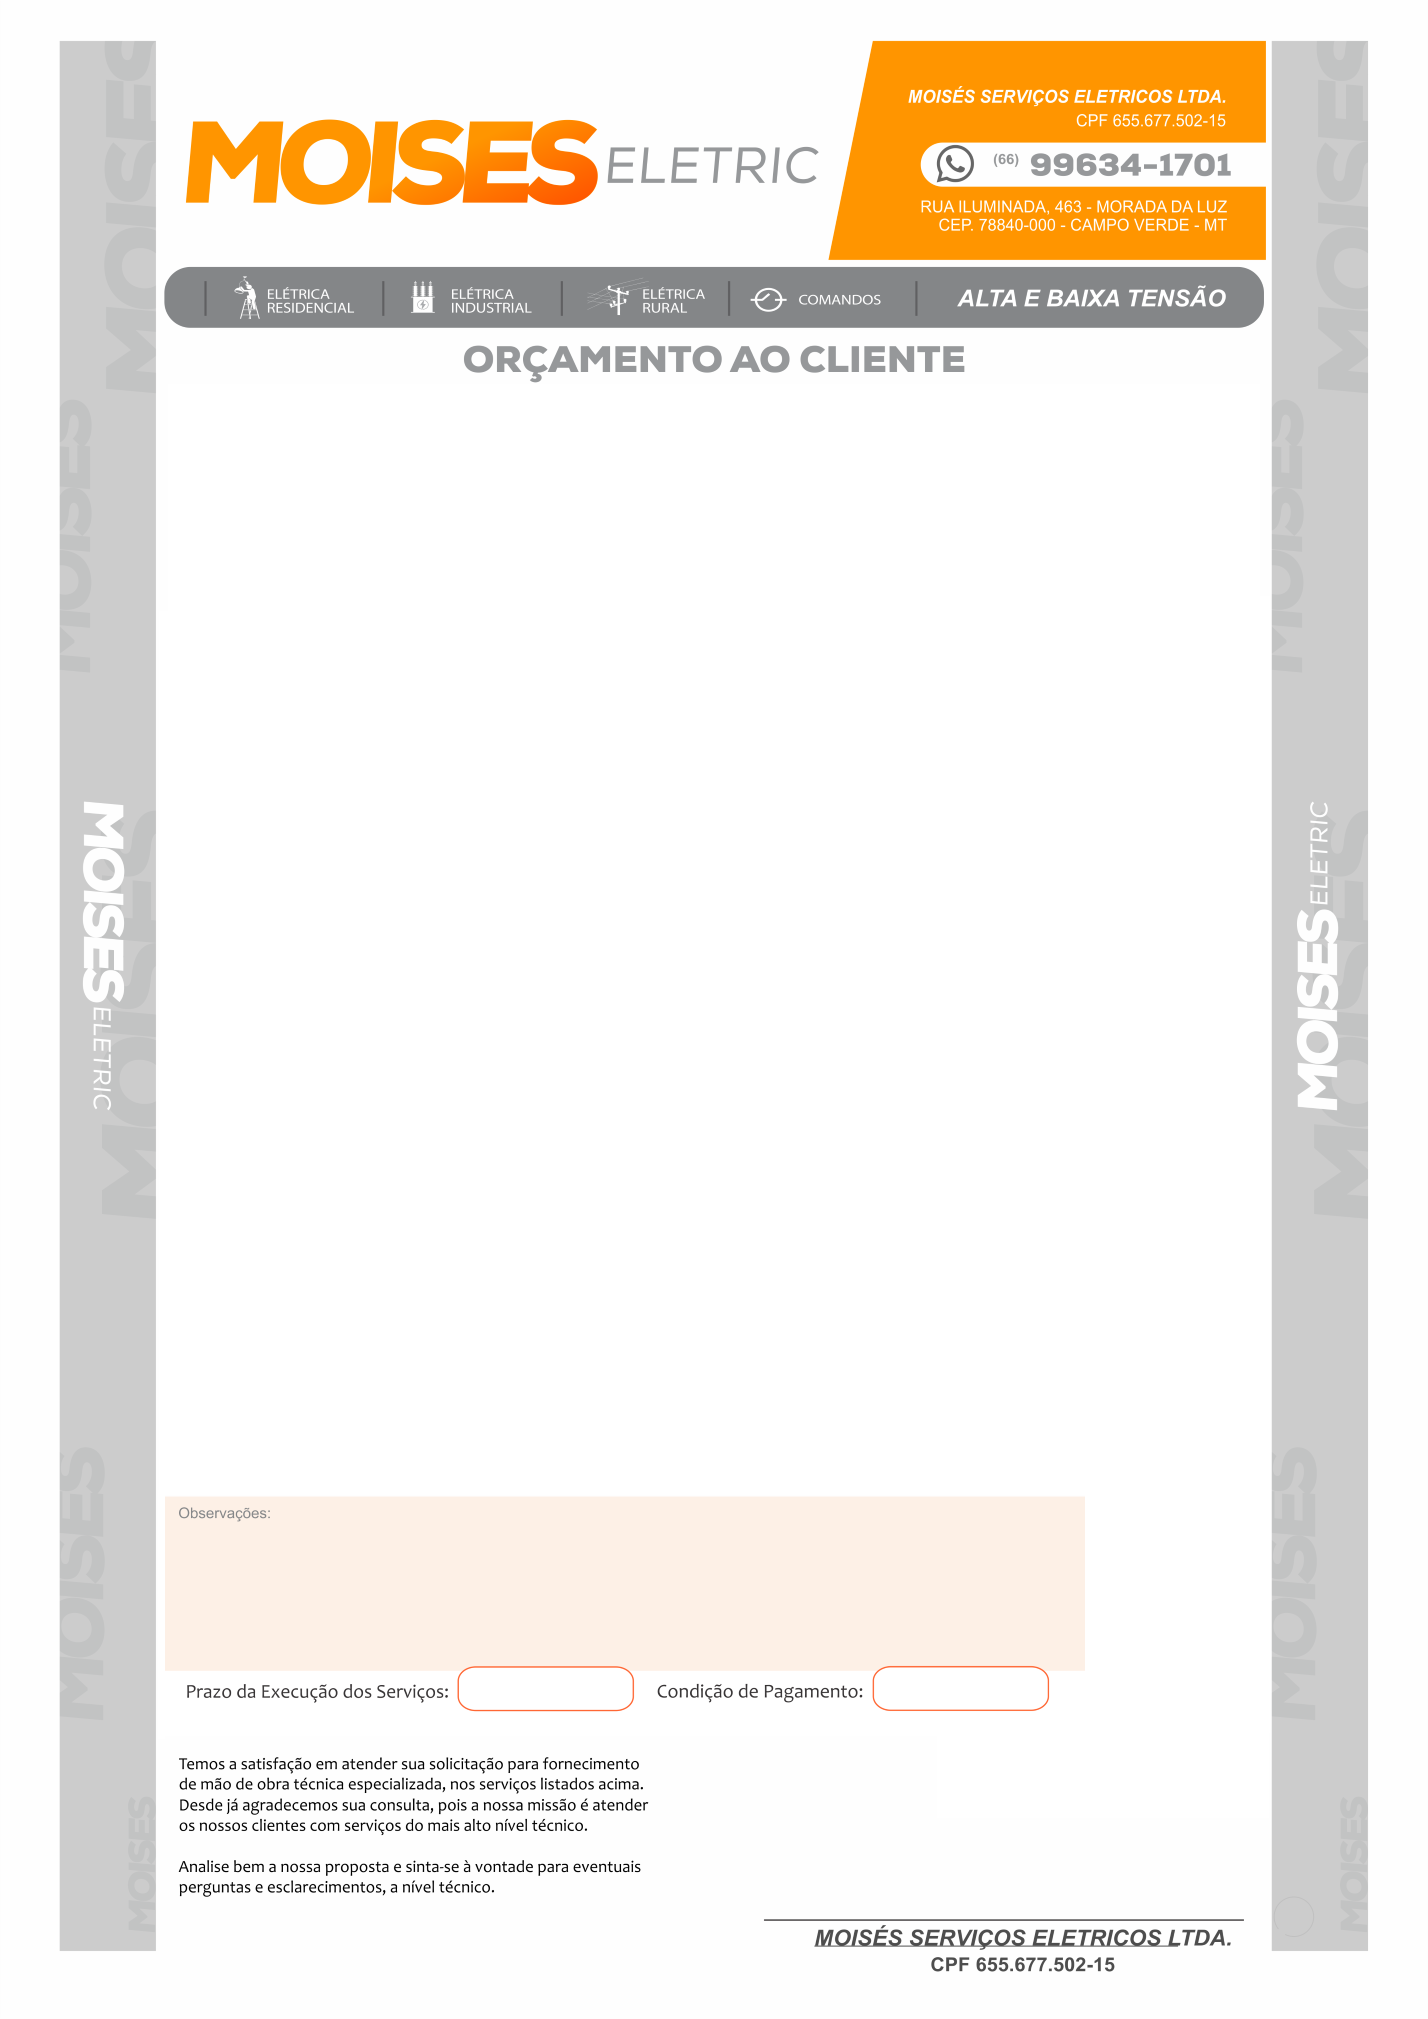
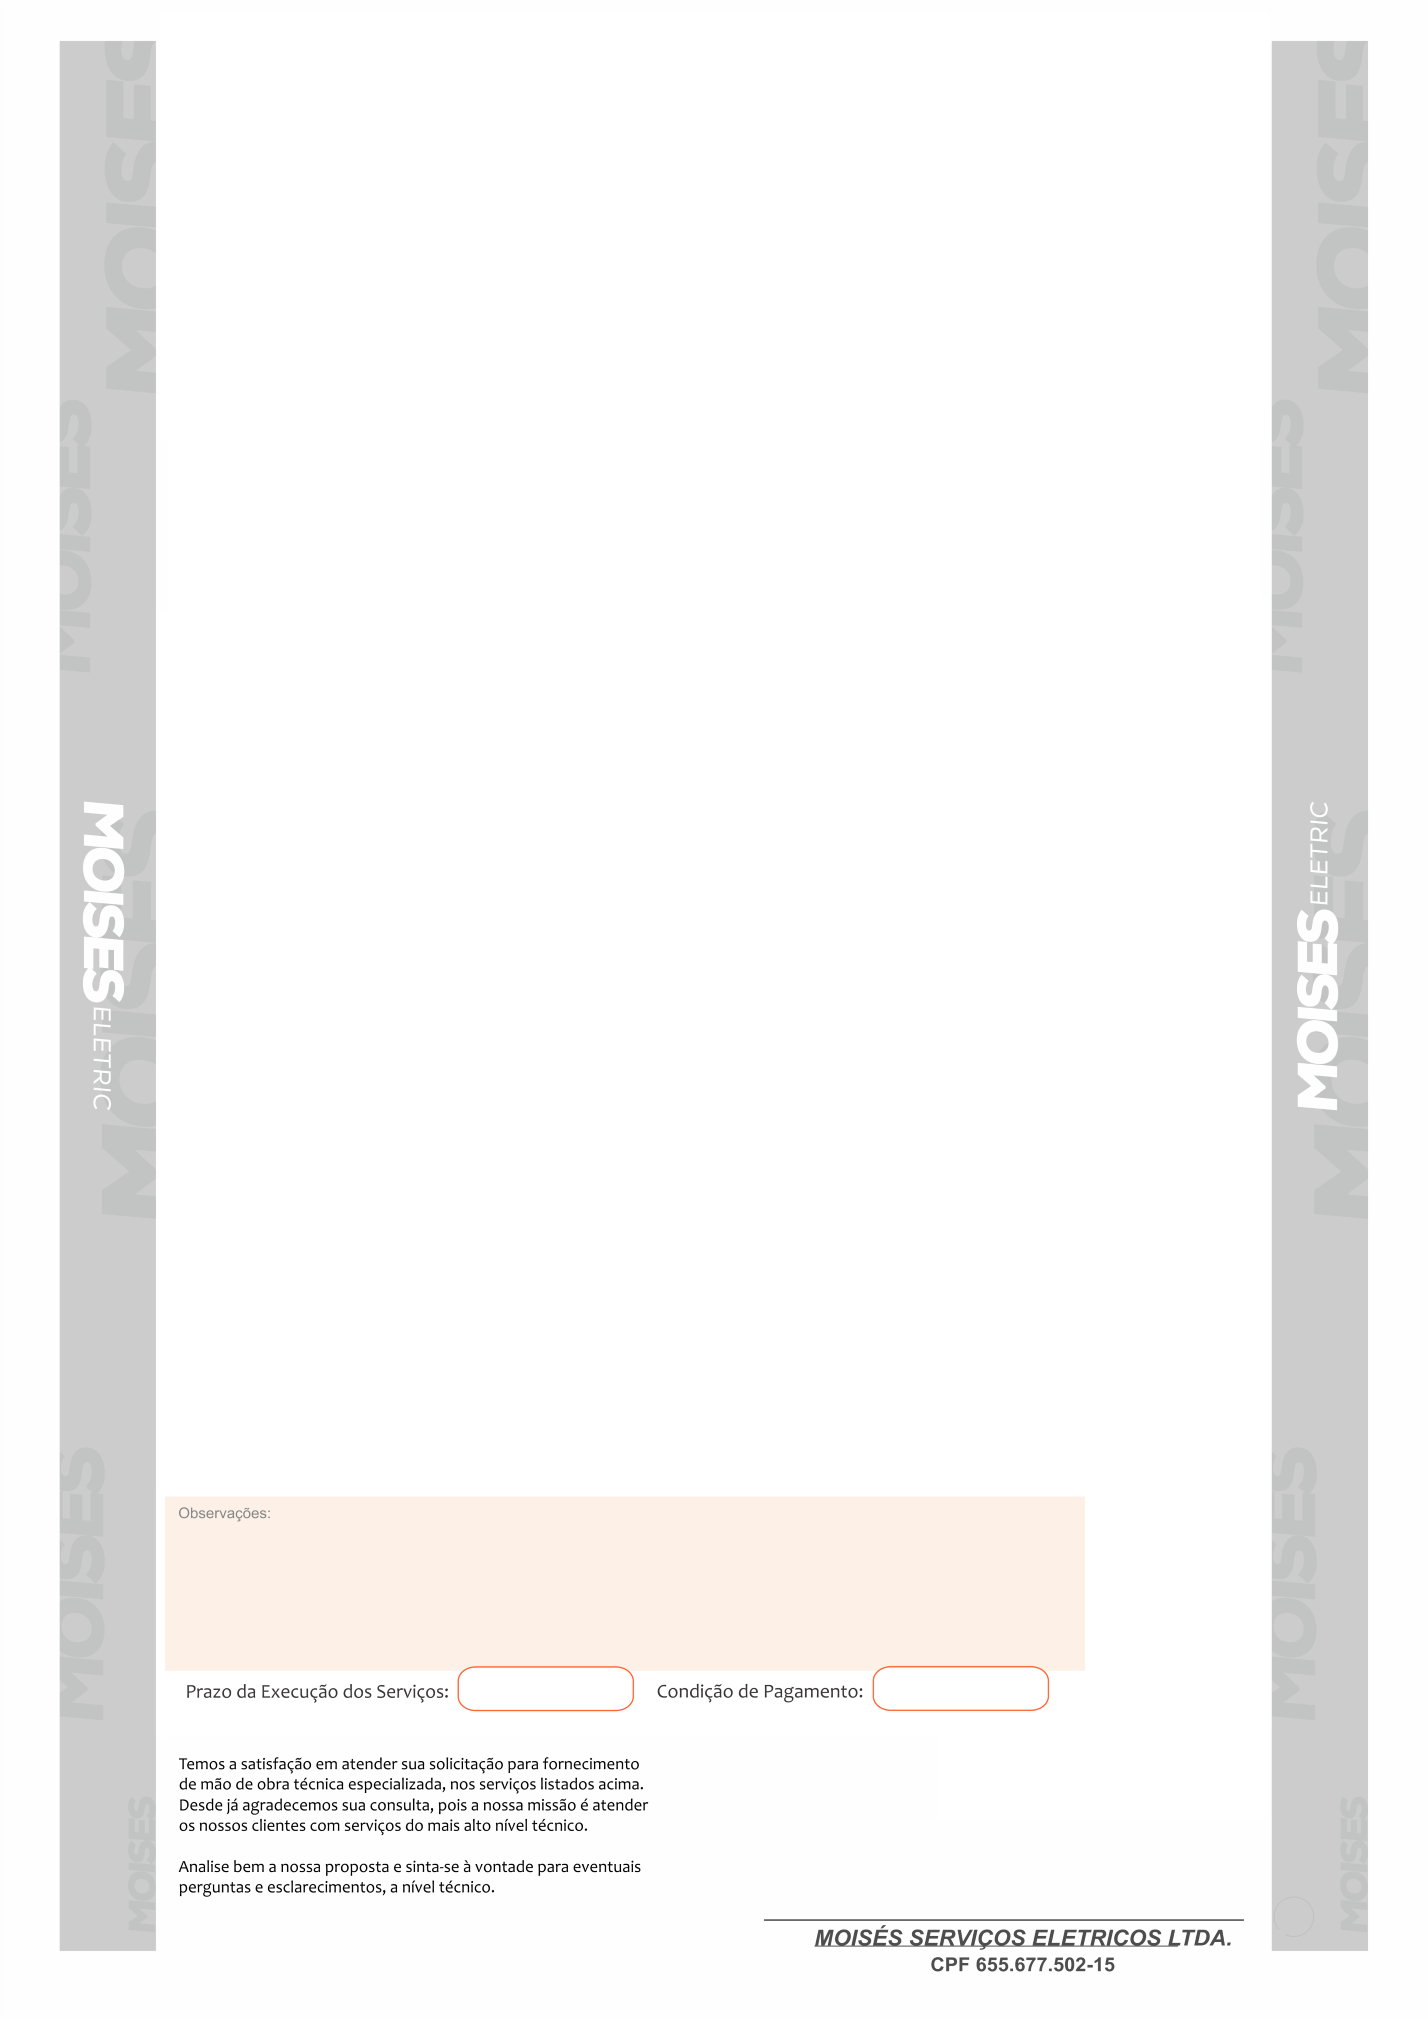
1

Changed region(s): [[0.0924, 0.0, 0.8936, 0.1872]]

diff --git a/lib/api/pdf_invoice_api.dart b/lib/api/pdf_invoice_api.dart
@@ -1,4 +1,5 @@
 import 'dart:io';
+import 'dart:typed_data';
 import 'package:flutter/services.dart';
 import 'package:formulario_pdf/api/pdf_api.dart';
 import 'package:formulario_pdf/model/customer.dart';
@@ -17,9 +18,19 @@ class PdfInvoiceApi {
         .buffer
         .asUint8List();
 
+    final imagemCabecalho =
+        (await rootBundle.load('assets/orcamentoPdfTop.jpg'))
+            .buffer
+            .asUint8List();
+
+    final imagemCabecalho2 =
+        (await rootBundle.load('assets/orcamentoPdfTopPage2.jpg'))
+            .buffer
+            .asUint8List();
+
     pdf.addPage(MultiPage(
       pageTheme: PageTheme(
-          margin: EdgeInsets.only(left: 70, right: 70, top: 50, bottom: 20),
+          margin: EdgeInsets.only(left: 70, right: 70, top: 30, bottom: 70),
           pageFormat: PdfPageFormat.a4,
           buildBackground: (context) {
             return FullPage(
@@ -27,22 +38,35 @@ class PdfInvoiceApi {
           }),
       build: (context) => [
         //SizedBox(height: 1 * PdfPageFormat.cm),
-        buildHeader(invoice),
+        buildHeader(invoice, imagemCabecalho),
         SizedBox(height: .5 * PdfPageFormat.cm),
         //buildTitle(invoice),
-        buildInvoice(invoice),
+        buildInvoice(invoice, imagemCabecalho2, context),
         //Divider(),
         buildTotal(invoice),
       ],
+      header: (context) {
+        if (context.pageNumber >= 2) {
+          return Container(
+              width: PdfPageFormat.a4.width / 4,
+              child: Image(MemoryImage(imagemCabecalho2)));
+        } else {
+          return Container();
+        }
+      },
       footer: (context) => buildFooter(invoice, context),
     ));
 
     return PdfApi.saveDocument(name: 'pdf_gerado.pdf', pdf: pdf);
   }
 
-  static Widget buildHeader(Invoice invoice) => Column(
+  static Widget buildHeader(Invoice invoice, Uint8List imgCabeca) => Column(
         children: [
-          SizedBox(height: 3.9 * PdfPageFormat.cm),
+          //SizedBox(height: 3.9 * PdfPageFormat.cm),
+
+          Container(
+              width: PdfPageFormat.a4.width,
+              child: Image(MemoryImage(imgCabeca))),
 
           Container(
               width: PdfPageFormat.a4.width,
@@ -192,7 +216,8 @@ class PdfInvoiceApi {
         ],
       );
 
-  static Widget buildInvoice(Invoice invoice) {
+  static Widget buildInvoice(
+      Invoice invoice, Uint8List imgCabeca2, Context context) {
     final headers = [
       'Qtd.',
       'Und',
@@ -213,7 +238,7 @@ class PdfInvoiceApi {
     }).toList();
 
     return Container(
-      alignment: Alignment.centerLeft,
+      alignment: Alignment.topLeft,
       //height: 15,
       decoration: BoxDecoration(
         border: Border.all(color: PdfColor(1, .5, .1), width: .5),
